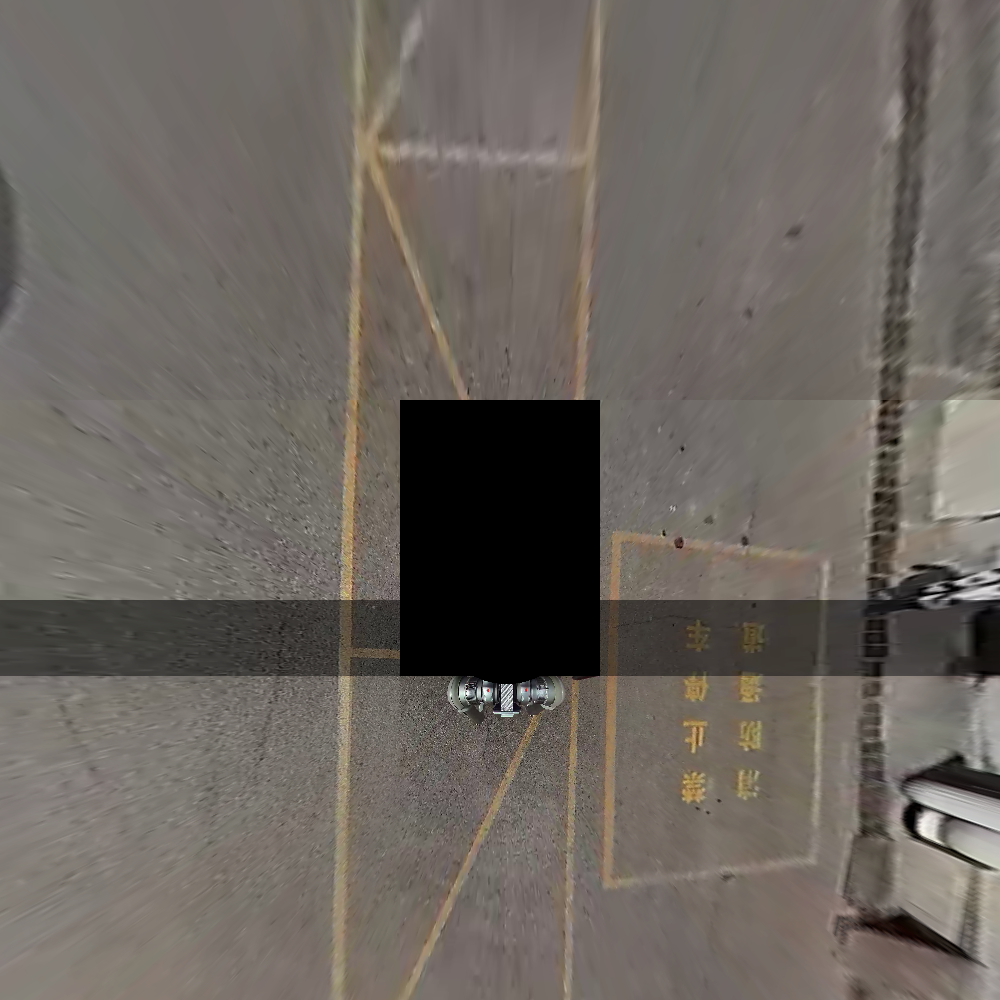
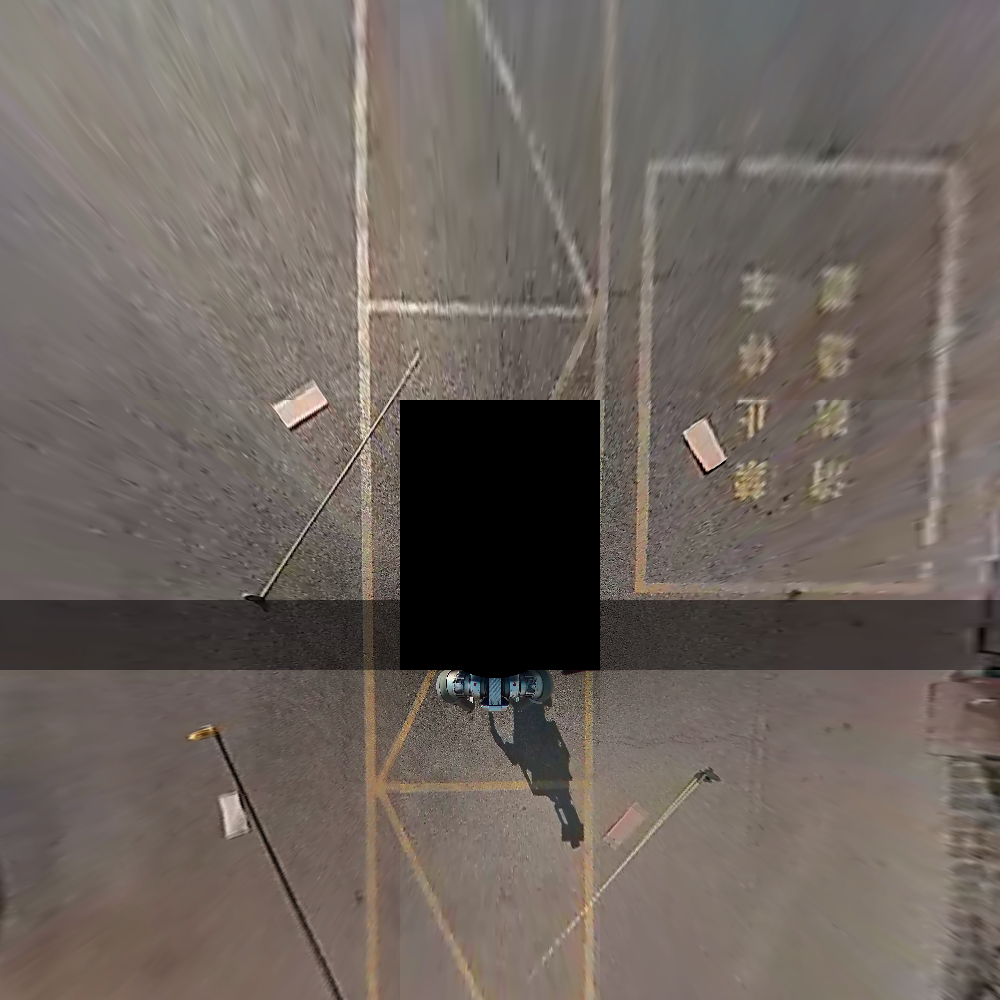
保留所有改动,2号黑狗测试BEV和投影测试正常

diff --git a/surround-camera/manual_calib_front3/src/run_front3_calib_v4.cpp b/surround-camera/manual_calib_front3/src/run_front3_calib_v4.cpp
@@ -5,7 +5,8 @@
  * New Features:
  * - Multiple stitching modes: FL+FR, FL+F, F+FR, FL+F+FR
  * - Single camera views: FL, F, FR
- * venv) nio@PC1Y47SH:/mnt/d327cf14-2b9b-4977-955d-e19c9242ea1a/deqi/r_calib/third_party/SensorsCalibration/surround-camera/manual_calib_front3$ cd build/ && make -j4 && cd .. && ./bin/run_front3_calib_v4 ./2_dog/imgs/ ./2_dog/param/ ./2_dog/param/camera_extrinsics_ikalibr.json5 
+ * venv) nio@PC1Y47SH:/mnt/d327cf14-2b9b-4977-955d-e19c9242ea1a/deqi/r_calib/third_party/SensorsCalibration/surround-camera/manual_calib_front3$ 
+ * cd build/ && make -j4 && cd .. && ./bin/run_front3_calib_v4 ./2_dog/imgs/ ./2_dog/param/ ./2_dog/param/camera_extrinsics_ikalibr.json5 
  */
 #include <boost/filesystem.hpp>
 #include <opencv2/opencv.hpp>

diff --git a/surround-camera/manual_calib_new/src/run_avm_new.cpp b/surround-camera/manual_calib_new/src/run_avm_new.cpp
@@ -1,7 +1,9 @@
 /*
  * Copyright (C) 2024 - Rewritten for new camera/param format
  * Based on auto_calib_fisheye/test_bev_simple.cpp
- */
+ * (venv) nio@PC1Y47SH:/mnt/d327cf14-2b9b-4977-955d-e19c9242ea1a/deqi/r_calib/third_party/SensorsCalibration/surround-camera/manual_calib_new$ 
+ * cd build/ && make -j4 && cd .. && ./bin/run_avm_new ./2_dog/imgs/ ./2_dog/param/ ./2_dog/param/camera_extrinsics_ikalibr.json5
+ * */
 #include <boost/filesystem.hpp>
 #include <opencv2/opencv.hpp>
 #include <pangolin/pangolin.h>
